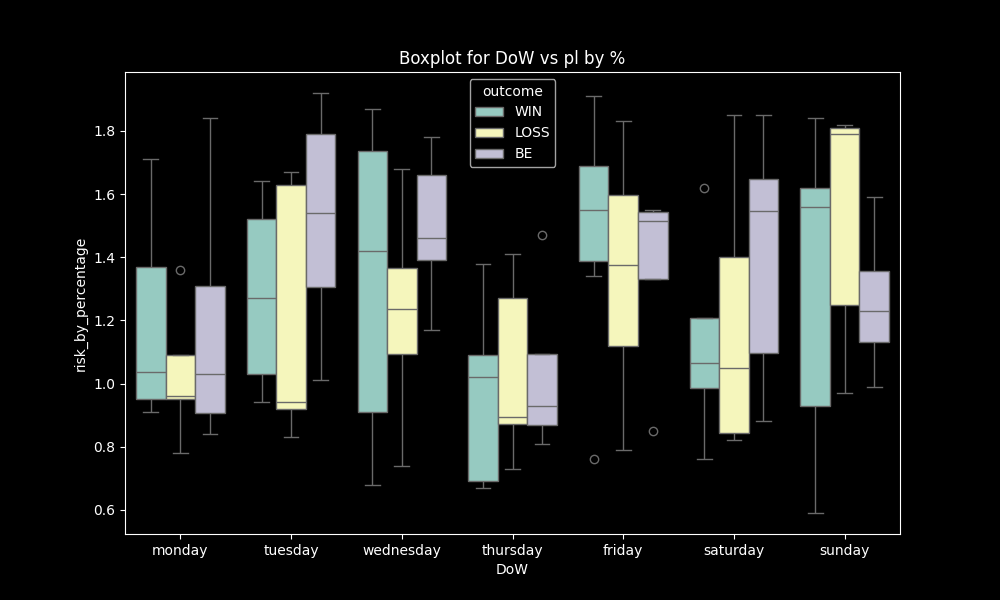
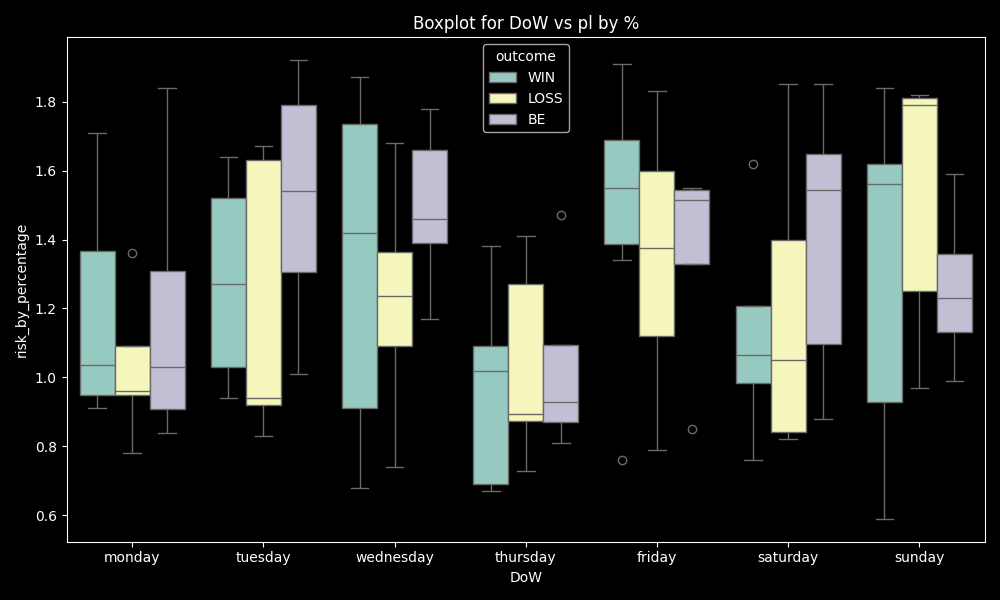
almost done 5 graphs & other nemuric stats

diff --git a/tj_analyser_cfds.py b/tj_analyser_cfds.py
@@ -27,7 +27,7 @@ def overall_stats(df):
 
     wins = df["outcome"].value_counts()[["WIN"]].values.item()  # Get the scalar value
     losses = df["outcome"].value_counts()[["LOSS"]].values.item()  # Get the scalar value
-    be = df["outcome"].value_counts()[["BE"]].values.item()  # Get the scalar value
+    # be = df["outcome"].value_counts()[["BE"]].values.item()  # Get the scalar value
     winrate = float((wins / (wins + losses)) * 100)
 
     total_trades = df.shape[0]  # Gets the number of rows as an integer
@@ -162,10 +162,10 @@ def hour_of_day_stats(df):
     hour_11_losses = len(df_copy[(df_copy["entry_time_td"] >= h11) & (df_copy["entry_time_td"] < h12) & (df_copy["outcome"] == "LOSS")])
 
     # Best profit/loss by hour
-    max_08 = df_copy[(df_copy["entry_time_td"] >= h08) & (df_copy["entry_time_td"] < h09)]["p/l_by_percentage"].max()
-    max_09 = df_copy[(df_copy["entry_time_td"] >= h09) & (df_copy["entry_time_td"] < h10)]["p/l_by_percentage"].max()
-    max_10 = df_copy[(df_copy["entry_time_td"] >= h10) & (df_copy["entry_time_td"] < h11)]["p/l_by_percentage"].max()
-    max_11 = df_copy[(df_copy["entry_time_td"] >= h11) & (df_copy["entry_time_td"] < h12)]["p/l_by_percentage"].max()
+    # max_08 = df_copy[(df_copy["entry_time_td"] >= h08) & (df_copy["entry_time_td"] < h09)]["p/l_by_percentage"].max()
+    # max_09 = df_copy[(df_copy["entry_time_td"] >= h09) & (df_copy["entry_time_td"] < h10)]["p/l_by_percentage"].max()
+    # max_10 = df_copy[(df_copy["entry_time_td"] >= h10) & (df_copy["entry_time_td"] < h11)]["p/l_by_percentage"].max()
+    # max_11 = df_copy[(df_copy["entry_time_td"] >= h11) & (df_copy["entry_time_td"] < h12)]["p/l_by_percentage"].max()
 
     # Get best hour by p/l
     pl_numeric = df["p/l_by_percentage"].str.replace("%", "").astype(float)
@@ -187,7 +187,6 @@ def hour_of_day_stats(df):
         print("No trades found.")
     print()
 
-
     return (h08, h09, h10, h11), df_copy
 
 
@@ -203,26 +202,28 @@ def pl_percentage_plot(df):
     df_copy = df.copy()
     risk_converted = df_copy["risk_by_percentage"].str.replace("%", "").astype(float)
     pl_numeric = risk_converted * df["p/l_by_rr"]  # risk * rr
-    # df_copy["p/l_by_percentage"] = pl_numeric  # creat the column
-    # add % to the col data if it's allready converted
-    # df["p/l_by_percentage"] = df["p/l_by_percentage"].apply(lambda x: f"{x:.2f}%")
-
-    x = df["date"]
+    x = df["date"].index
     y = pl_numeric.cumsum()
+
     # Plot setup
     plt.style.use("dark_background")
     plt.figure(figsize=(6, 6))
-    plt.plot(x, y, label="P/L by %")
+    ax = plt.gca()  # Get the current axis
+    sns.lineplot(x=x, y=y, label="P/L by %")
     plt.title("Performance By Percentage Gains")
-    # plt.xlabel("Date")
+    plt.xlabel("Date")
     plt.ylabel("P/L by %")
-    plt.xticks(df["date"][::5], rotation=45, ha="right")  # [::5] dates evry 5 days for better visualizations
+    # plt.xticks(rotation=90)
     plt.legend()
     # plt.grid(True, linestyle="--", alpha=0.7)
-    # plt.tight_layout()
+
+    # Remove right and top spines
+    ax.spines["right"].set_visible(False)
+    ax.spines["top"].set_visible(False)
+
+    plt.tight_layout()
     plt.savefig("./exported_data/gains_by_percentage.png")
     plt.show()
-    return df
 
 
 def pl_by_symbol_rr(df):
@@ -246,10 +247,9 @@ def pl_by_symbol_rr(df):
     # plt.xticks(rotation=45, ha="right")
     # plt.legend()
     # plt.grid(True, linestyle="--", alpha=0.7)
-    # plt.tight_layout()
-    plt.savefig("pl_by_symbol_rr.png")
+    plt.tight_layout()
+    plt.savefig("./exported_data/pl_by_symbol_rr.png")
     plt.show()
-    return df
 
 
 def pl_hist(df):
@@ -260,8 +260,8 @@ def pl_hist(df):
     risks = df_copy["p/l_by_percentage"].str.replace("%", "").astype(float)
     # Plot setup
     plt.style.use("dark_background")
-    # plt.figure(figsize=(6, 6))
-    sns.displot(risks, bins=15, kde=True)
+    plt.figure(figsize=(6, 6))
+    sns.histplot(risks, bins=15, kde=True)
     plt.title("Distribution of P/L by %")
     # plt.xlabel("P/L by %")
     # plt.ylabel("Frequency")  # Fixed typo "Freauency" to "Frequency"
@@ -270,6 +270,7 @@ def pl_hist(df):
     plt.tight_layout()
     plt.savefig("./exported_data/pl_distribution.png")
     plt.show()
+
 
 def boxplot_DoW(df):
     if "p/l_by_percentage" not in df.columns:
@@ -282,10 +283,11 @@ def boxplot_DoW(df):
     plt.figure(figsize=(10, 6))
     sns.boxplot(x=df["DoW"], y=pl, hue=df["outcome"])
     plt.title("Boxplot for DoW vs pl by %")
-    # plt.tight_layout()
+    plt.tight_layout()
     plt.savefig("./exported_data/boxplot_DoW_vs_PL.png")
     plt.show()
     return df
+
 
 def risk_vs_reward_scatter(df):
     df_copy = df.copy()
@@ -310,29 +312,30 @@ def risk_vs_reward_scatter(df):
     plt.show()
 
 
-def pl_by_time_heatmap(df):
-    """
-    visualizations about day of week and houres of day.
-    """
-    df_copy = df.copy()
-    if "date" not in df.columns or "p/l_by_percentage" not in df.columns:
-        raise ValueError("Column 'date' or 'p/l_by_percentage' not found in DataFrame")
-
-    x = df_copy["risk_by_percentage"].str.replace("%", "").astype(float)
-    y = df_copy["p/l_by_percentage"].str.replace("%", "").astype(float)
-
-    # Plot setup
-    plt.style.use("dark_background")
-    plt.figure(figsize=(10, 6))
-    plt.title("Risk vs Rewards")
-    plt.xlabel("Risk by Percentage")
-    plt.ylabel("P/L by Percentage")
-    # plt.axvline(1.5, color='gray', linestyle='--', label='1.5% Threshold')
-    plt.legend()
-    # plt.grid(True, linestyle="--", alpha=0.7)
-    plt.tight_layout()
-    plt.savefig("./exported_data/risk_vs_reward.png")
-    # plt.show()
+# def pl_by_time_heatmap(df):
+#     """
+#     visualizations about day of week and houres of day.
+#     """
+#     df_copy = df.copy()
+#     if "date" not in df.columns or "p/l_by_percentage" not in df.columns:
+#         raise ValueError("Column 'date' or 'p/l_by_percentage' not found in DataFrame")
+#
+#     x = df_copy["risk_by_percentage"].str.replace("%", "").astype(float)
+#     y = df_copy["p/l_by_percentage"].str.replace("%", "").astype(float)
+#
+#     # Plot setup
+#     plt.style.use("dark_background")
+#     plt.figure(figsize=(10, 6))
+#     sns.heatmap()
+#     plt.title("Risk vs Rewards")
+#     plt.xlabel("Risk by Percentage")
+#     plt.ylabel("P/L by Percentage")
+#     # plt.axvline(1.5, color='gray', linestyle='--', label='1.5% Threshold')
+#     plt.legend()
+#     # plt.grid(True, linestyle="--", alpha=0.7)
+#     plt.tight_layout()
+#     plt.savefig("./exported_data/risk_vs_reward.png")
+#     # plt.show()
 
 
 if __name__ == "__main__":
@@ -353,8 +356,7 @@ if __name__ == "__main__":
     # pl_by_symbol_rr(df)
     # pl_hist(df)
     # risk_vs_reward_scatter(df)
-    # pl_by_time_heatmap(df)
-    # boxplot_DoW(df)
-
+    boxplot_DoW(df)
+    #
     df.to_csv("./exported_data/output_data.csv", index=False)
     print("--DataFrame saved to 'output_data.csv--'")

diff --git a/testing.py b/testing.py
@@ -38,10 +38,43 @@ def boxplot(df):
     plt.show()
 
 
+# tripplot
+def stripplot(df):
+    df_copy = df.copy()
+    # pl = df_copy["risk_by_percentage"].str.replace("%", "").astype(float)
+    pl = df["p/l_by_rr"]
+    sns.stripplot(x=df["DoW"], y=pl, hue=df["outcome"])
+    plt.show()
+
+
+# jointplot (risk vs reward)
+def jointplot_risk_vs_reward(df):
+    # df_copy = df.copy()
+    x = df["risk_by_percentage"].str.replace("%", "").astype(float)
+    y = df["p/l_by_percentage"].str.replace("%", "").astype(float)
+    sns.jointplot(x=x, y=y, hue=df["outcome"])
+    plt.show()
+
+
+# pairplot num value
+def pairplot(df):
+    sns.pairplot(df.select_dtypes(["number"]))
+    plt.show()
+
+
+def heatmap(df):
+    sns.heatmap(df["pl_by_rr"], annot=True)
+    plt.show()
+
+
 if __name__ == "__main__":
     df = pd.read_csv("./exported_data/output_data.csv")
     print(df.head())
     # risk_vs_profit(df)
     # hist_risks(df)
     # bar_plot(df)
-    boxplot(df)
+    # boxplot(df)
+    # stripplot(df)
+    # jointplot_risk_vs_reward(df)
+    # pairplot(df)
+    heatmap(df)
